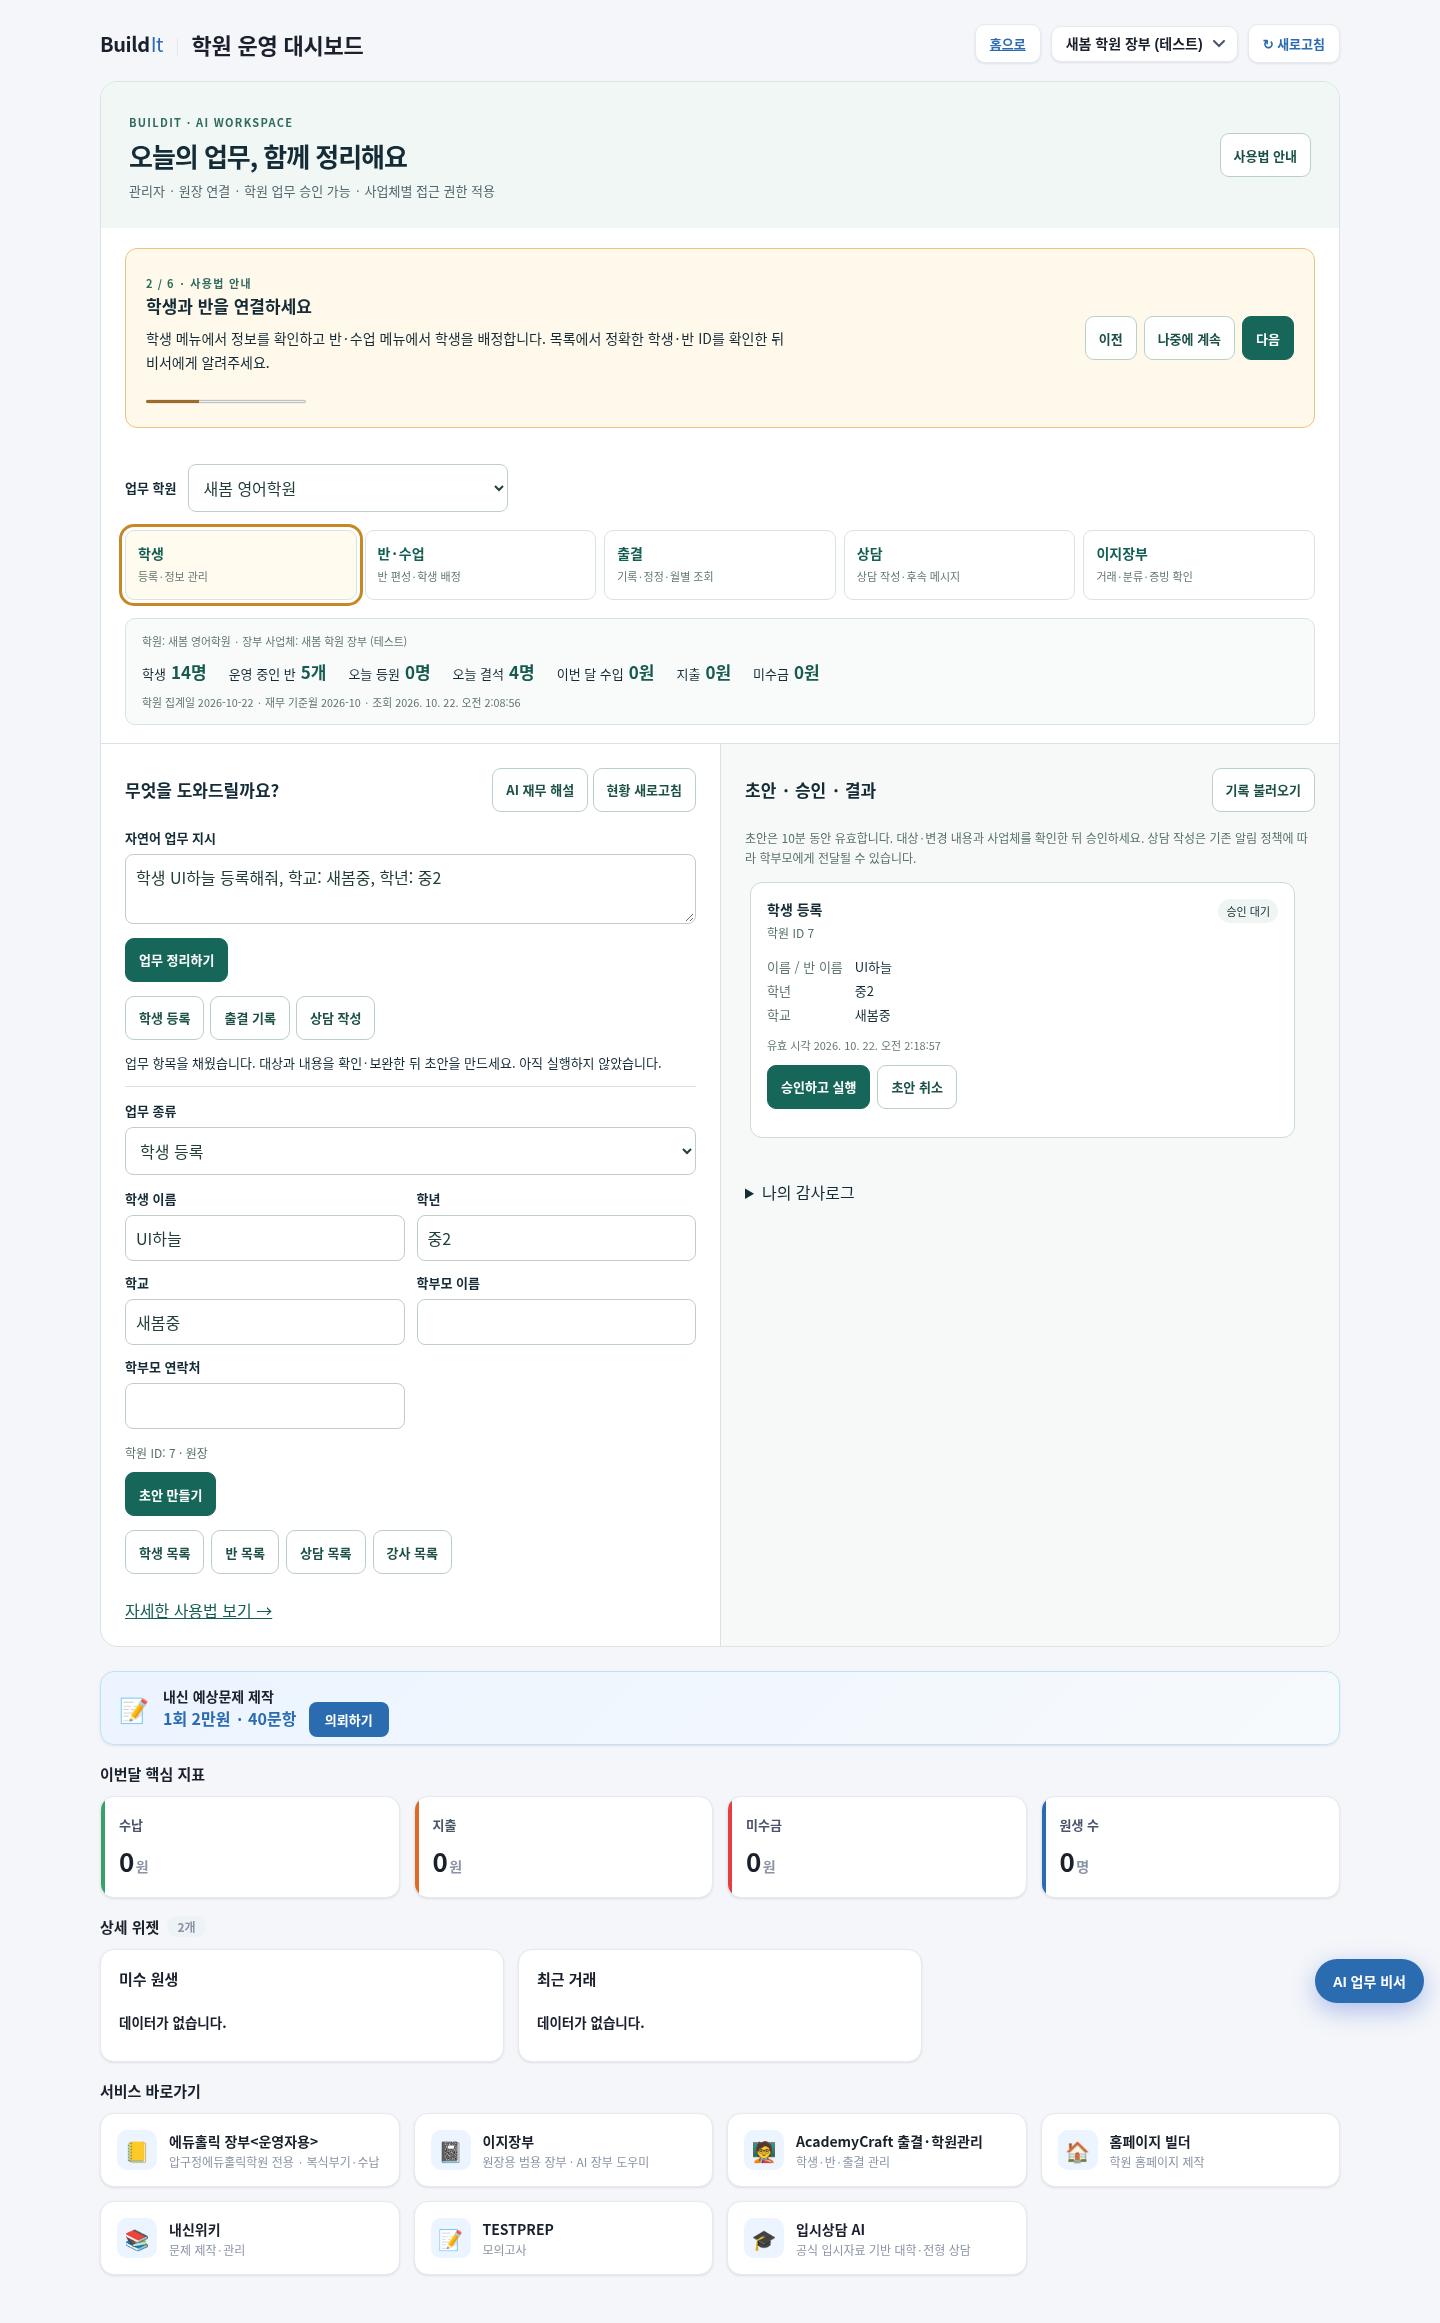
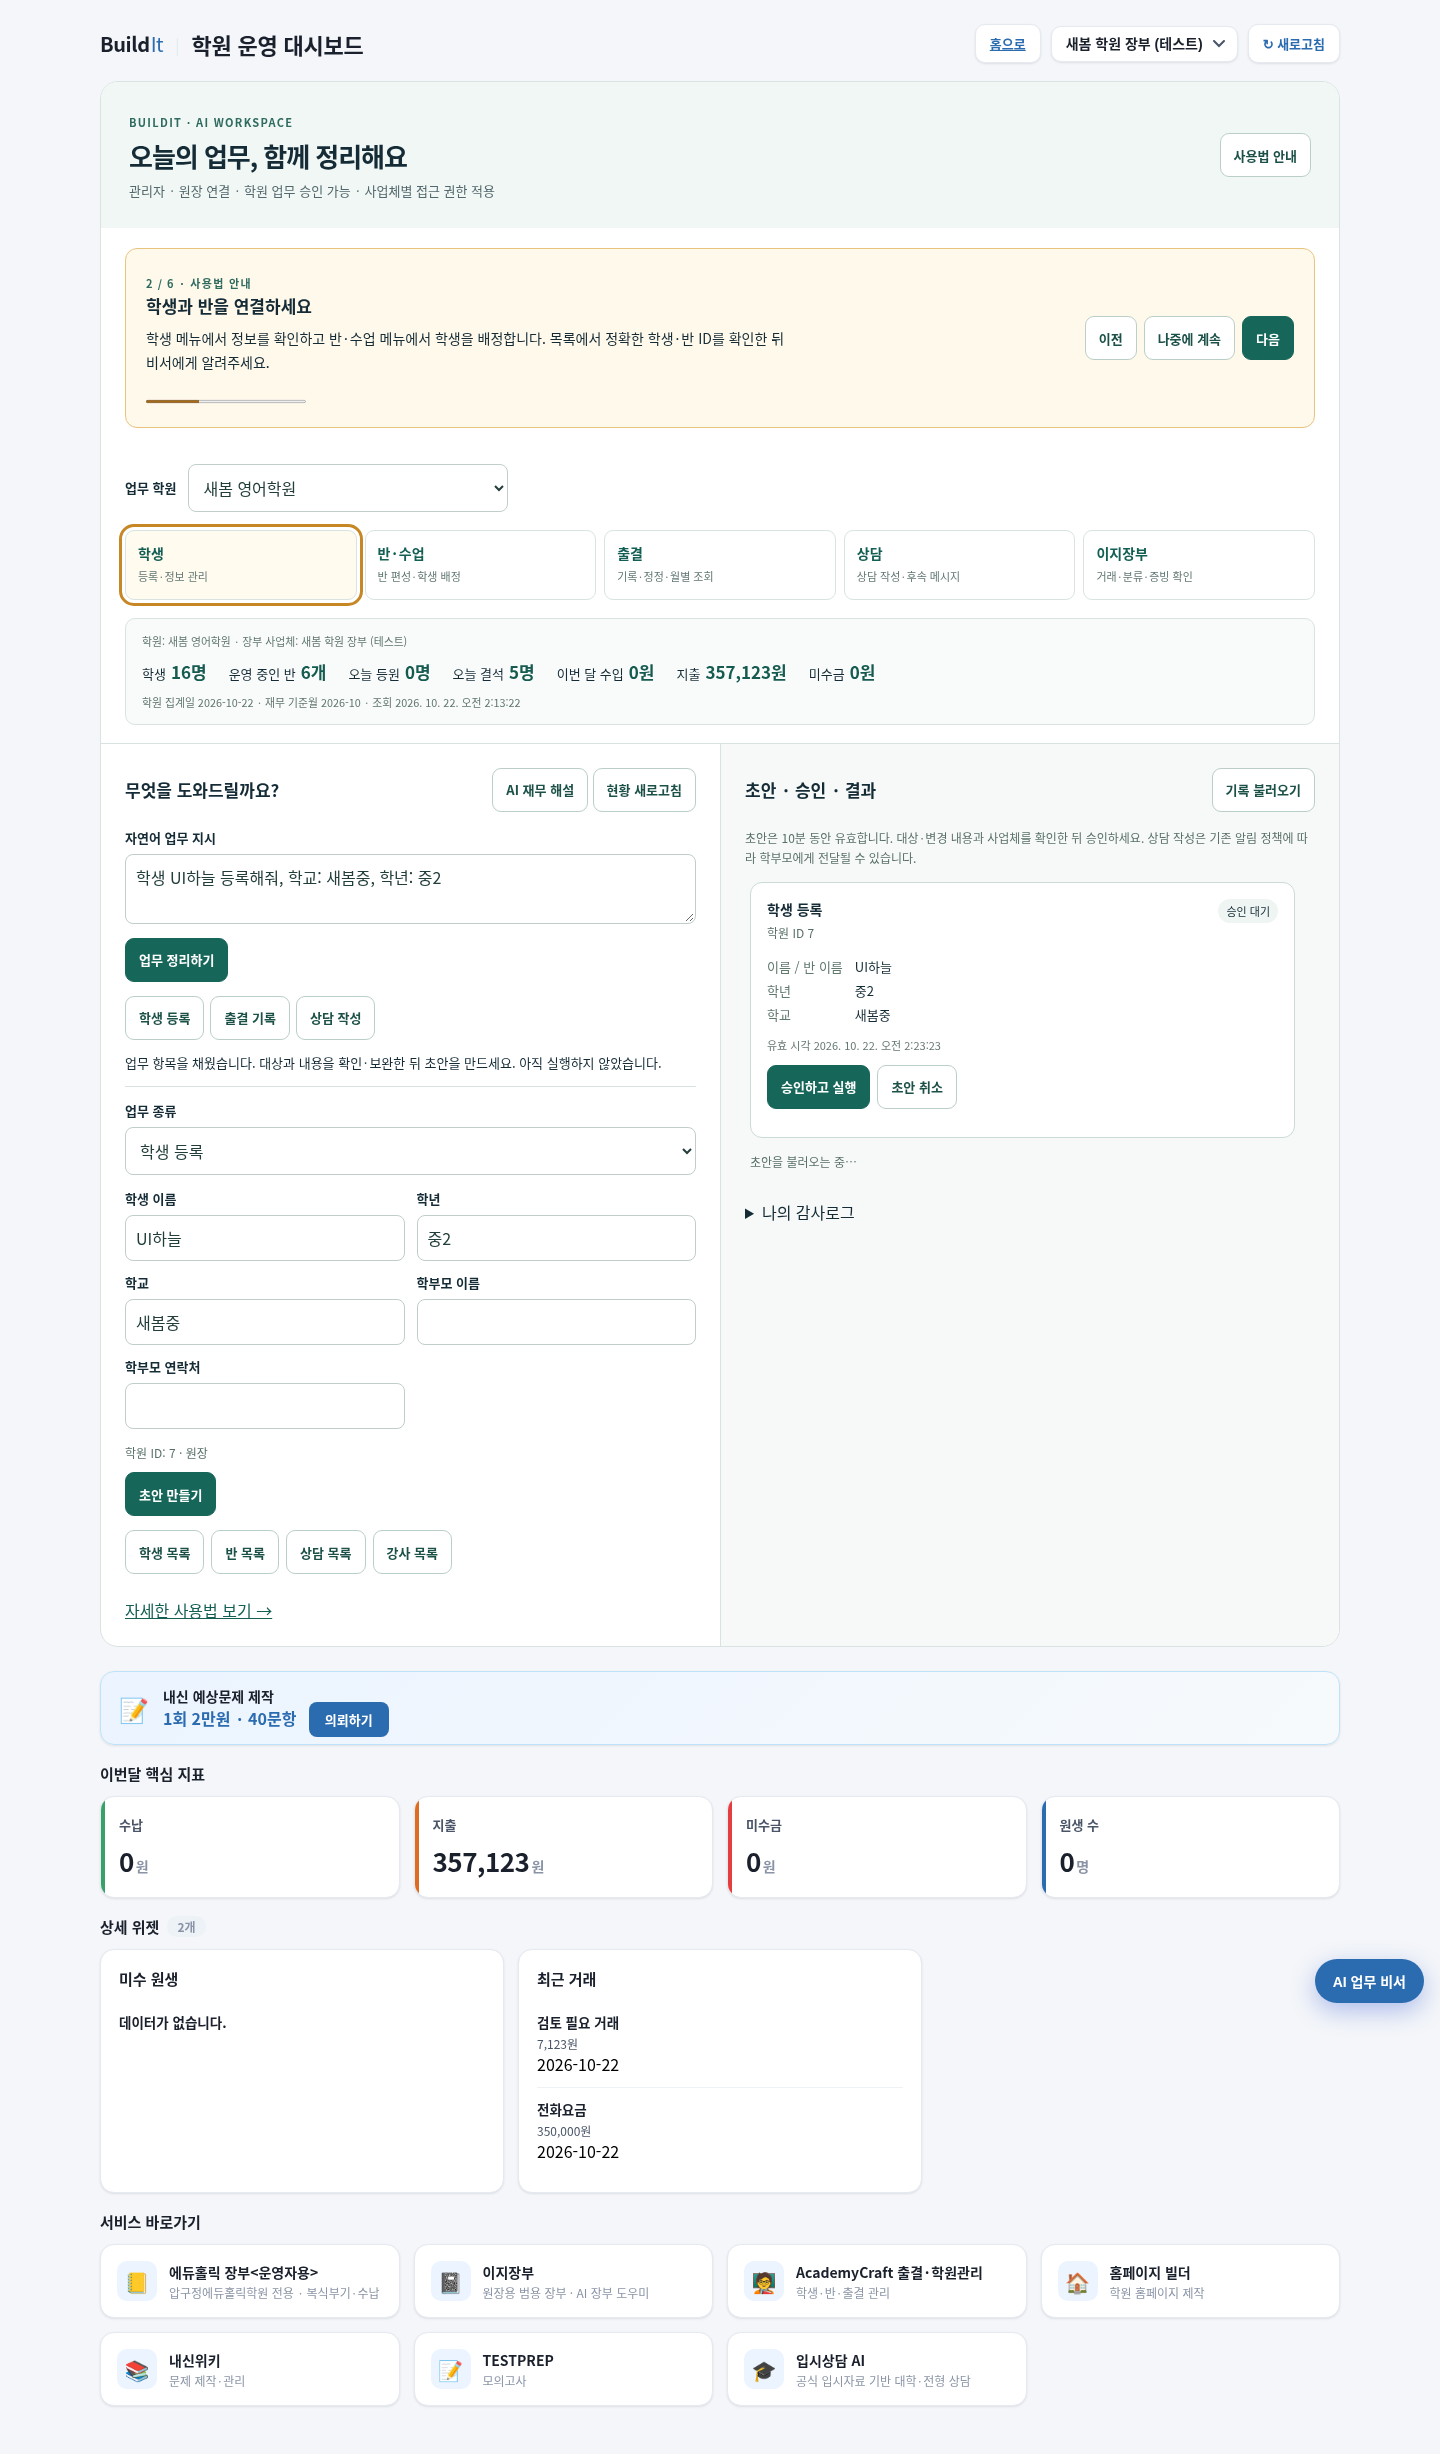
[TEST] 최신 main 기준 검증 결과와 화면 증거 확정

diff --git a/e2e/unified-assistant/unified.spec.js b/e2e/unified-assistant/unified.spec.js
@@ -93,7 +93,8 @@ test('expiry, cancellation, live permission revocation and unknown outcome never
   expect((await admin.post(API+'/drafts/'+d.id+'/approve',{data:{planHash:d.planHash}})).status()).toBe(409);
 });
 test('CSV and natural ledger entry preserve evidence, store once, count reviews and enforce business access',async()=>{
-  const csv='거래일,구분,금액,거래처,적요,결제수단,원본계정,증빙유형\n2099-10-14,지출,350000,KT '+suffix+',전화요금,계좌이체,전화/휴대폰/인터넷,INVOICE\n';
+  const occurredOn=new Date().toISOString().slice(0,10);
+  const csv='거래일,구분,금액,거래처,적요,결제수단,원본계정,증빙유형\n'+occurredOn+',지출,350000,KT '+suffix+',전화요금,계좌이체,전화/휴대폰/인터넷,INVOICE\n';
   const d=await ok(admin.post(API+'/imports?businessId=1',{multipart:{file:{name:'test-'+suffix+'.csv',mimeType:'text/csv',buffer:Buffer.from(csv)}}}));
   expect(d.preview.rows[0].createdTxnId).toBeNull();expect(d.preview.rows[0].evidenceType).toBe('INVOICE');
   let result=await approve(d);expect(result.result.saved).toBe(1);expect(result.result.verified).toBe(true);
@@ -101,10 +102,10 @@ test('CSV and natural ledger entry preserve evidence, store once, count reviews 
   expect((await other.post(API+'/drafts/'+d.id+'/approve',{data:{planHash:d.planHash}})).status()).toBe(404);
   const duplicate=await ok(admin.post(API+'/imports?businessId=1',{multipart:{file:{name:'copy.csv',mimeType:'text/csv',buffer:Buffer.from(csv)}}}));
   result=await approve(duplicate);expect(result.result.duplicates).toBe(1);expect(result.result.saved).toBe(0);
-  const manual=await draft('LEDGER_ENTRY',{occurredOn:'2099-10-15',direction:'EXPENSE',amount:7123,counterparty:'미분류 검증 '+suffix,description:'검토 필요 거래',evidenceType:'NONE'},null,1);
+  const manual=await draft('LEDGER_ENTRY',{occurredOn,direction:'EXPENSE',amount:7123,counterparty:'미분류 검증 '+suffix,description:'검토 필요 거래',evidenceType:'NONE'},null,1);
   result=await approve(manual);expect(result.result.saved).toBe(1);expect(result.result.review).toBeGreaterThan(0);expect(result.status).toBe('REVIEW_REQUIRED');
   expect((await other.post(API+'/imports?businessId=1',{multipart:{file:{name:'no.csv',mimeType:'text/csv',buffer:Buffer.from(csv)}}})).status()).toBe(403);
-  const overview=await ok(admin.get(API+'/overview?businessId=1'));expect(overview.academy.studentCount).toBeGreaterThan(0);expect(overview.finance.businessId).toBe(1);
+  const overview=await ok(admin.get(API+'/overview?businessId=1'));expect(overview.academy.studentCount).toBeGreaterThan(0);expect(overview.finance.businessId).toBe(1);expect(overview.finance.expense).toBeGreaterThanOrEqual(350000);
 });
 test('natural command and desktop/mobile workbench render, highlight, persist and approve through UI',async({browser})=>{
   const output=path.resolve(__dirname,'../../docs/unified-ai-assistant/screenshots');fs.mkdirSync(output,{recursive:true});

diff --git a/docs/unified-ai-assistant/verification.md b/docs/unified-ai-assistant/verification.md
@@ -1,6 +1,6 @@
 # 작업 A 검증 결과
 
-검증일: 2026-10-22 UTC. 운영 배포·운영 DB·main 병합·금융기관 접속 없음.
+검증일: 2026-10-22 UTC. [실행 결과 요약 JSON](test-results.json). 운영 배포·운영 DB·main 병합·금융기관 접속 없음.
 
 ## 환경
 
@@ -19,7 +19,7 @@
 | 검사 | 결과 |
 |---|---|
 | `compileJava`, `bootJar` | 통과 |
-| 관련 JUnit 47건 | 실패 0. 아래 실행 필터와 항목 참고 |
+| 관련 JUnit 78건 | 실패 0. 아래 실행 필터와 항목 참고 |
 | 실제 두 앱 + MySQL E2E 9개 시나리오 | 전부 통과, skip/flaky 0 |
 | 공통 로그인 후 환영 링크 | 현재 `/home` 유지, 안내 링크 표시·닫기 통과 |
 | PC/모바일 ADMIN·TUTOR | 화면 JS 오류 0, 가로 넘침 0, 안내 하이라이트·재개·UI 승인 통과 |
@@ -33,8 +33,12 @@ bash gradlew test \
   --tests '*unifiedassistant.*' \
   --tests '*AcademyCraftGatewayTest' \
   --tests '*EasyAgentSecurityWebMvcTest' \
-  --tests '*DashboardAssistantServiceTest' bootJar --max-workers=4
+  --tests '*DashboardAssistantServiceTest' \
+  --tests '*AdminTopnavMenuContractTest' \
+  --tests '*AcademyBuilderTemplateContractTest' bootJar --max-workers=4
 ```
+
+최신 main `07d9316a`를 feature 브랜치에 병합한 뒤 템플릿 회귀를 포함한 78건과 bootJar를 다시 실행해 통과했다. 추가된 진단 셸은 `bash -n`도 통과했다.
 
 신규 테스트는 PR Build Check의 기존 무DB 테스트 목록에도 추가했다. E2E는 별도 AcademyCraft와 전용 DB를 요구하므로 로컬 검증 스위트로 제출한다. 전체 Java 테스트 스위트를 통과했다고 주장하지 않는다.
 

diff --git a/docs/unified-ai-assistant/README.md b/docs/unified-ai-assistant/README.md
@@ -3,6 +3,7 @@
 상태: 로컬 프로토타입. 운영 배포·운영 DB 변경·main 병합 없음. 금융기관 접속·수집기·작업 B 변경 없음.
 
 - 분석 기준: GitHub `main` / PR #851 / `e7247e831c3b82a67e880621d041759067125360` (2026-10-22). fetch 후 GitHub API·최근 병합 SHA·Build Check 성공과 교차 확인했다.
+- 최종 main 동기화: `07d9316a293a30a84e13a09c42957bd64be71bd8` / PR #852. 변경은 읽기 전용 운영 진단 셸 22행이며 feature 브랜치에 병합했다.
 - 작업 브랜치: `feat/unified-ai-assistant`.
 - AcademyCraft 참조/실행 코드: `woori73/academycraft` / `115477f7ea0afa27dd69d9ae12318261c47a5a82`. 해당 저장소 코드는 변경하지 않았다.
 - 실행 화면: 로그인 후 `/dashboard`. 공통 로그인 계정 메뉴에서는 미완료 사용자에게 환영 안내 링크가 나오고, 기존 ADMIN·TUTOR 화면에도 진입 링크가 있다. 로그인한 원래 화면은 유지한다.
